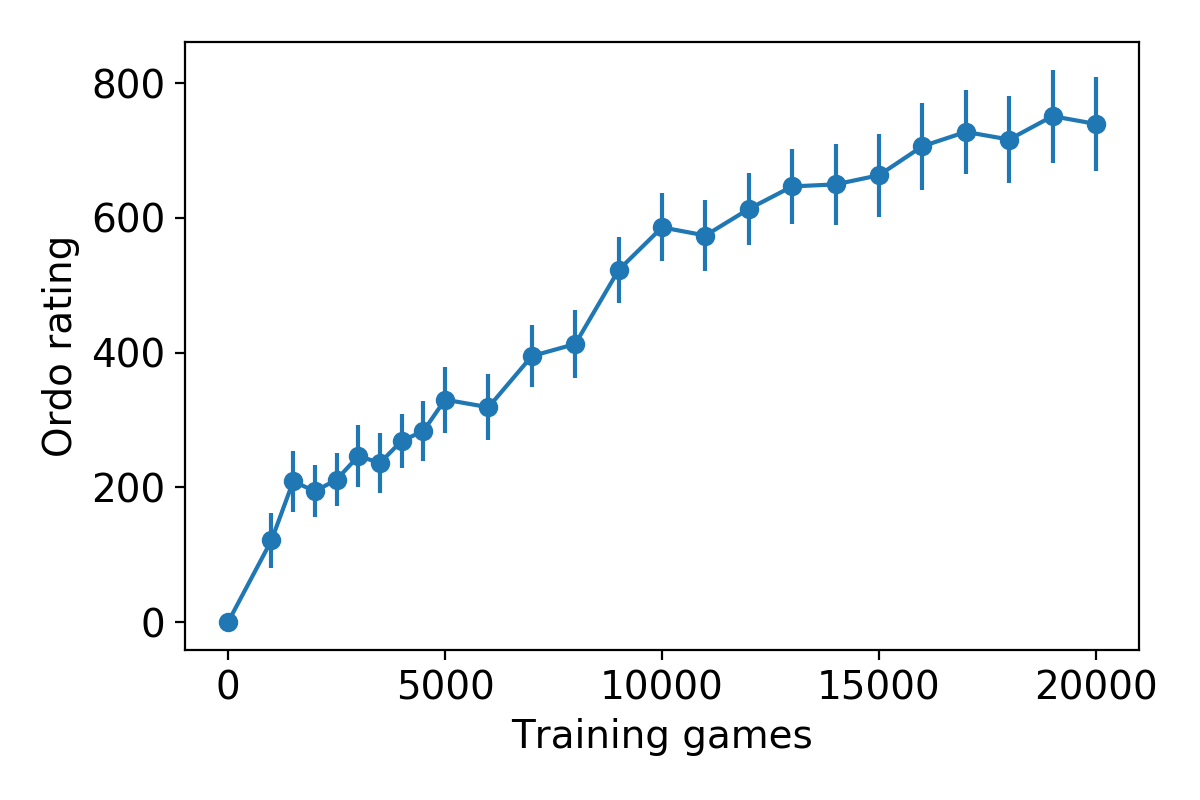
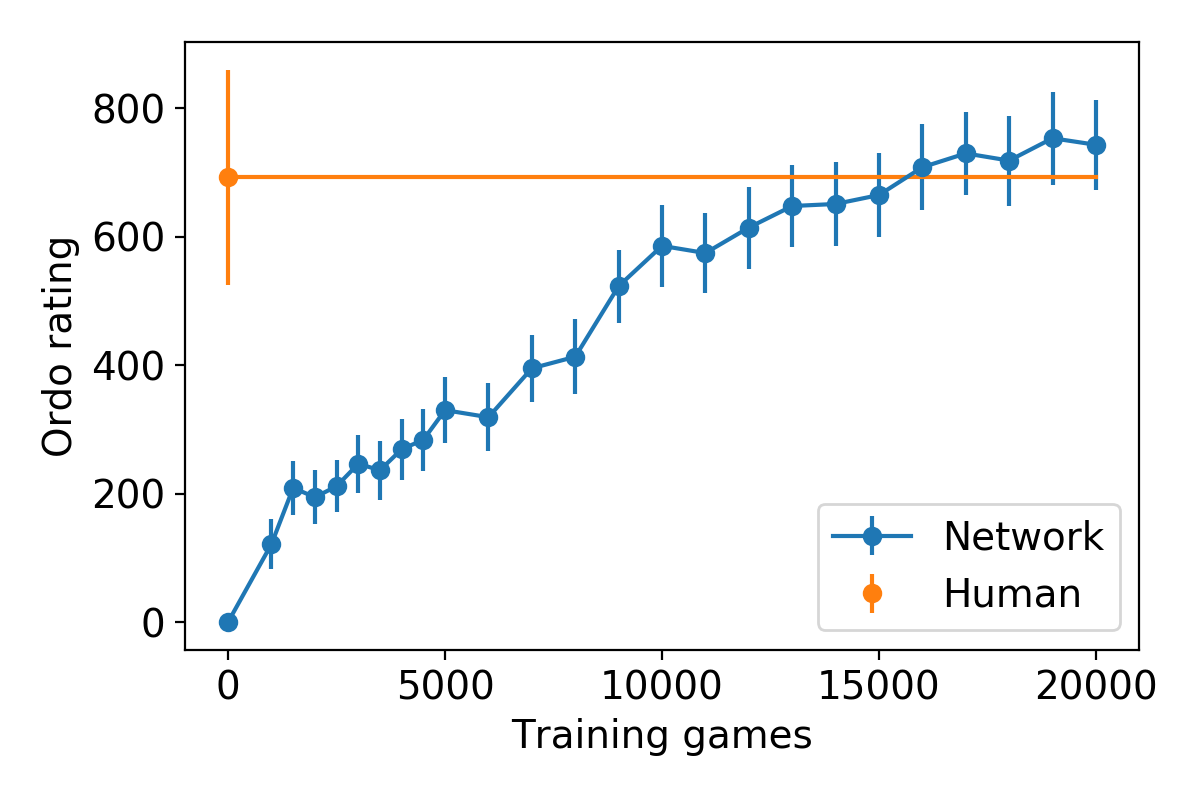
Add human results

diff --git a/src/gui.py b/src/gui.py
@@ -111,10 +111,11 @@ if __name__ == '__main__':
     m.load_state_dict(torch.load(f'../models/{name}.pt',
                                  map_location='cpu'))
     m = m.eval()
-    p1 = BatchNetPlayer(nodes=args.nodes, v_mode=args.v_mode, model=m, noise=args.noise)
-    p2 = GuiPlayer(x=600)
+    p1 = GuiPlayer(x=600)
+    p2 = BatchNetPlayer(nodes=args.nodes, v_mode=args.v_mode, model=m, noise=args.noise)
 
-    print_result(*play(p1, p2))
-    print_result(*play(p2, p1))
-    # from stats import make_stats
-    # make_stats(p1, p2, best_net, 'Felix', 'Felix_vs_net10000', num=4, temp=(3, 0.5))
+    # print_result(*play(p1, p2))
+    # print_result(*play(p2, p1))
+    from stats import make_stats
+    make_stats(p1, p2, 'Felix', best_net, 'Felix_vs_net20000',
+               num=4, temp=(3, 0.5), save=True)
